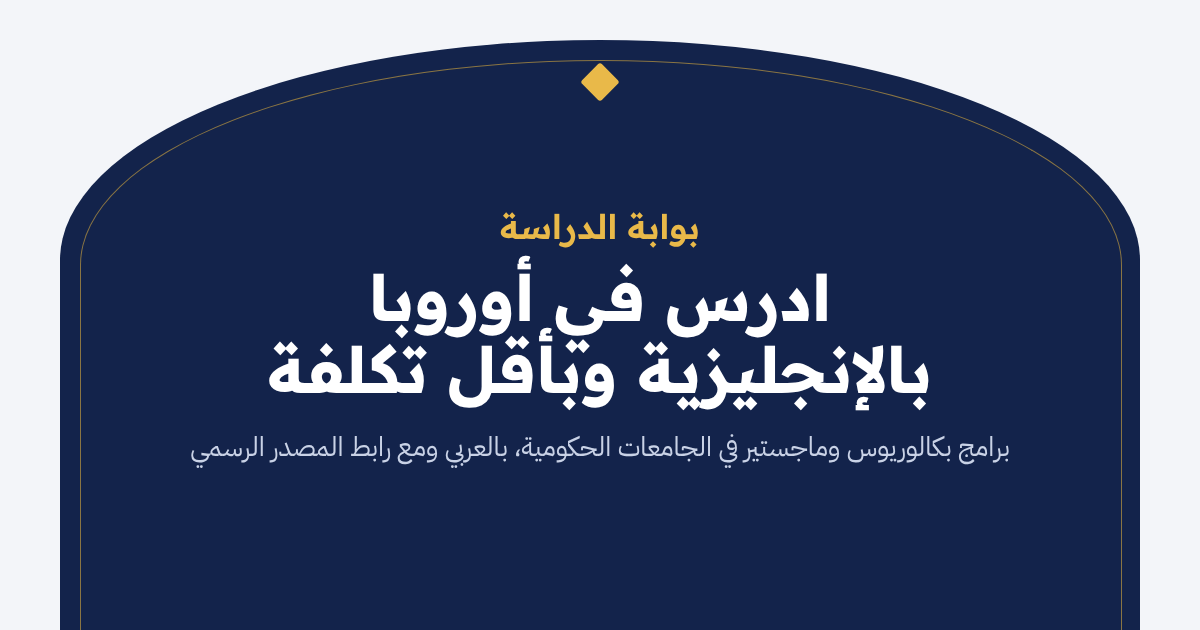
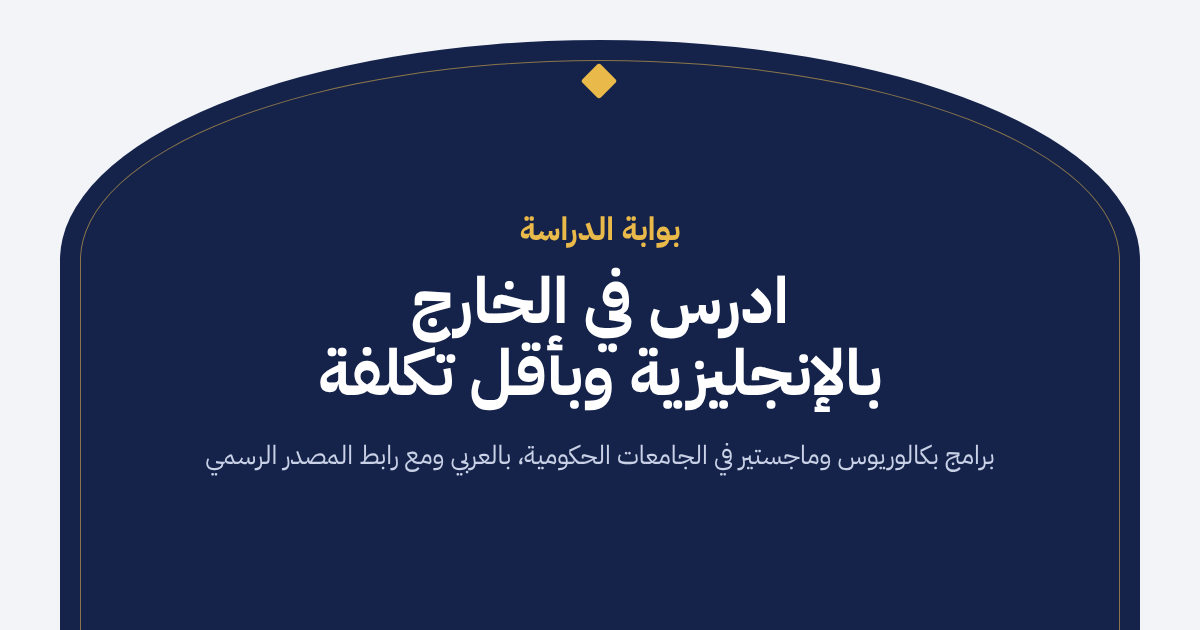
Share images: study abroad instead of Europe (no region)
Claude-Session: https://claude.ai/code/session_01VQ4j9W6vykzijmoHiss1UW

diff --git a/lib/visasMeta.js b/lib/visasMeta.js
@@ -14,7 +14,7 @@ export function visasMeta(lang, slug) {
   const nt = NTEXT[lang];
   const title = slug === NOMAD_HUB ? nt.meta : nm ? nt.metaOne(nm.name[lang]) : r ? RTEXT[lang].meta(r.name[lang]) : d ? t.metaDest(d.name[lang]) : t.metaHub;
   const description = slug === NOMAD_HUB ? nt.hubLead : nm ? nt.descOne(nm.name[lang]) : r ? RTEXT[lang].desc(r.name[lang]) : d ? t.descDest(d.name[lang]) : t.lead;
-  const img = `${SITE_ORIGIN}/study/og-${lang}.png?v=3`;
+  const img = `${SITE_ORIGIN}/study/og-${lang}.png?v=4`;
   return {
     title: { absolute: title }, description,
     alternates: { canonical: p(lang), languages: { ar: p("ar"), en: p("en"), "x-default": p("ar") } },

diff --git a/components/Fr.js b/components/Fr.js
@@ -30,7 +30,7 @@ export function frMeta({ title, description, path = "", ar, en }) {
     metadataBase: new URL(SITE_URL),
     title, description,
     alternates: { canonical: url, languages },
-    openGraph: { type: "website", siteName: "Bawabat AlDirasa", locale: "fr_FR", title, description, url, images: [{ url: `${SITE_URL}/og-en.png?v=3`, width: 1200, height: 630 }] },
+    openGraph: { type: "website", siteName: "Bawabat AlDirasa", locale: "fr_FR", title, description, url, images: [{ url: `${SITE_URL}/og-en.png?v=4`, width: 1200, height: 630 }] },
     twitter: { card: "summary_large_image", title, description },
   };
 }

diff --git a/lib/site.js b/lib/site.js
@@ -15,7 +15,7 @@ export function pageMeta(lang, { title, description, path = "/", image, fr } = {
   const abs = (p) => (/^https?:/.test(p) ? p : SITE_URL + (p === "/" ? "" : p));
   const enPath = `/en${path === "/" ? "" : path}`;
   const url = abs(lang === "ar" ? path : enPath);
-  const img = abs(image || `/og-${lang}.png?v=3`);
+  const img = abs(image || `/og-${lang}.png?v=4`);
   return {
     ...(title ? { title } : {}),
     description: desc,

diff --git a/scripts/og/make_site_og.py b/scripts/og/make_site_og.py
@@ -1,0 +1,31 @@
+# Draws public/og-ar.png and og-en.png (the study section share images) with Playwright. Run from the repo root: python3 scripts/og/make_site_og.py. After changing them, bump ?v= in lib/site.js, lib/visasMeta.js and components/Fr.js.
+from playwright.sync_api import sync_playwright
+import os
+F=os.path.abspath("lib/og/fonts")
+def page(lang, brand, title, sub):
+    d = "rtl" if lang=="ar" else "ltr"
+    fam = "PA" if lang=="ar" else "PL"
+    return f"""<html dir="{d}"><head><style>
+@font-face{{font-family:PA;src:url(file://{F}/ibm-plex-sans-arabic-arabic-700-normal.woff);font-weight:700}}
+@font-face{{font-family:PA;src:url(file://{F}/ibm-plex-sans-arabic-arabic-400-normal.woff);font-weight:400}}
+@font-face{{font-family:PL;src:url(file://{F}/ibm-plex-sans-arabic-latin-700-normal.woff);font-weight:700}}
+@font-face{{font-family:PL;src:url(file://{F}/ibm-plex-sans-arabic-latin-400-normal.woff);font-weight:400}}
+html,body{{margin:0;width:1200px;height:630px;background:#F3F4F8;overflow:hidden;font-family:{fam},PA,PL}}
+.arch{{position:absolute;left:60px;right:60px;top:40px;bottom:-40px;background:#15234B;border-radius:540px 540px 0 0/220px 220px 0 0}}
+.in{{position:absolute;left:80px;right:80px;top:60px;bottom:-40px;border:1px solid rgba(233,185,73,.55);border-radius:520px 520px 0 0/200px 200px 0 0}}
+.dia{{position:absolute;left:586px;top:68px;width:26px;height:26px;background:#E9B949;transform:rotate(45deg);border-radius:3px}}
+.c{{position:absolute;left:0;right:0;top:205px;text-align:center}}
+.b{{color:#E9B949;font-weight:700;font-size:32px;margin-bottom:14px}}
+.t{{color:#fff;font-weight:700;font-size:64px;line-height:1.12}}
+.s{{color:#C9D1E6;font-size:26px;margin-top:26px;line-height:1.5}}
+</style></head><body><div class="arch"></div><div class="in"></div><div class="dia"></div>
+<div class="c"><div class="b">{brand}</div><div class="t">{title}</div><div class="s">{sub}</div></div></body></html>"""
+with sync_playwright() as p:
+    b=p.chromium.launch(); pg=b.new_page(viewport={"width":1200,"height":630})
+    for lang,brand,title,sub in [
+      ("ar","بوابة الدراسة","ادرس في الخارج<br>بالإنجليزية وبأقل تكلفة","برامج بكالوريوس وماجستير في الجامعات الحكومية، بالعربي ومع رابط المصدر الرسمي"),
+      ("en","Bawabat AlDirasa","Study abroad<br>in English, for less","Bachelor's and master's at public universities,<br>with the official source for every fact")]:
+        open(f"/tmp/og-{lang}.html","w").write(page(lang,brand,title,sub))
+        pg.goto(f"file:///tmp/og-{lang}.html"); pg.wait_for_timeout(500)
+        pg.screenshot(path=f"public/og-{lang}.png")
+    b.close()

diff --git a/CLAUDE.md b/CLAUDE.md
@@ -167,6 +167,8 @@ Read this first in every new session. Keep it up to date: when a decision is mad
 - Long-stay routes (20 Nov, Hatem): lib/visaRoutes.js ROUTES served by the same /visas/[slug] pages (VisaRoute in components/Visas.js; visasMeta/DEST_SLUGS include ROUTE_SLUGS; hub section "تأشيرات الإقامة الطويلة"). germany-opportunity-card: § 20a AufenthG, path 1 full recognition no points / path 2 home-recognised qualification + German A1 or English B2 + 6 points (CK_POINTS from make-it-in-germany), €1,091 net/month 2026 (€13,092/yr), fees up to €100, insurance ≥ €30,000 (Cairo leaflet), 20 h/week + 2 weeks trial work, 1 year, follow-up card up to 2 years; components/PointsCheck.js (client, nothing saved). spain-digital-nomad: Ley 14/2013 ch. V bis; 200% SMI monthly gross (SMI 2026 €1,221 x 14 = €17,094 per RD 126/2026, so €2,442 monthly basis or ~€2,849 if /12; consulate basis للتحقق), family +75%/+25%, 3 months with employer, company 1 year old, degree or 3 years experience, freelancers ≤20% Spanish clients, visa 1 year then residence up to 3 years (renewal 2 years للتحقق), UGE in-Spain fee €73.26, Egypt via BLS (10-day decision; consular fee not published). Next routes: EU Blue Card, UK Skilled Worker, Canada Express Entry, Australia/NZ points; Chancenkarte/Spain routes for sa/ma/jo/dz consulates.
 - Digital nomad visas (20 Nov, Hatem): lib/nomadVisas.js NOMADS (15: es links to its own route page spain-digital-nomad; pt it gr hr ee mt hu ro tr ae my th jp br get generated pages /visas/<country>-digital-nomad, UAE = uae-remote-work), hub /visas/digital-nomad-visas (NomadHub + components/NomadFinder.js: monthly income in EUR + nationality -> fits / below / no figure, nationality limits via only/exclude/listCheck; nothing saved). `min` = monthly EUR for the finder (USD at ECB 17 Nov 2026 1.0989, RON 5.3482; minCheck = our calculation or to verify; null for Thailand (500,000 THB savings) and Japan (JPY 10M/yr)). Key facts: Portugal 4 x €920 = €3,680 (VFS checklists + DGERT); Italy 3x healthcare-exemption minimum (€24,789 for 2024 per Washington embassy, ~€28,000 per Johannesburg; finder uses 28,000/12); Greece €3,500 (mfa.gr), Law 5275/2026 needs consulate D visa first (news, check); Croatia €3,622.50 or €43,470/12 months, up to 18 months, visa nationals apply at missions (MUP); Estonia €4,500 gross, €80 C / €100 D (visitestonia FAQ); Malta €42,000/yr, €300 + €100, excludes so sd ye (Residency Malta FAQ); Hungary White Card €3,000 net, no family (OIF); Romania 3 x avg gross (Law 44/2026 9,192 lei -> 27,576 lei, check); Türkiye US$3,000/mo, degree, listed nationalities only (Arab passports not on published lists, check); UAE US$3,500, GDRFA fees AED 200+10+10+500+20; Malaysia DE Rantau US$24,000 tech / 60,000 non-tech, RM1,080 + RM540 per dependant (MDEC FAQ v10, Israel excluded); Thailand DTV 500,000 THB, 5 years, 180 days per entry; Japan JPY 10M, 6 months, only UAE among Arab main applicants (moj list); Brazil US$1,500/mo or US$18,000 (Res. 45/2021; gov.br pages behind a captcha, duration not read). Flags for jp th br drawn in DestFlag. Next: Costa Rica, Mauritius, Cyprus, Czechia (Zivno is not a nomad visa), Iceland, Colombia; per-origin consulates.
 
+- Share images (21 Nov, Hatem): public/og-ar.png / og-en.png now say "ادرس في الخارج بالإنجليزية وبأقل تكلفة" / "Study abroad in English, for less" (no region), drawn by scripts/og/make_site_og.py (Playwright + Plex fonts); cache version ?v=4 in lib/site.js, lib/visasMeta.js, components/Fr.js. The visas pages still reuse the study image (brand "بوابة الدراسة"); a visas-specific image is still to do.
+
 ## Next (in Hatem's order)
 1. Keep growing the small fields (master's: social work 6, urban 10, art 10, food 10, education 11, tourism 11, psychology 11; bachelor's: social work 1, health 4, sport 6, art 7, humanities 7, science 8; candidates: University of Auckland 2027 UG table (BFA NZ$47,221, BDes NZ$51,688, Sport Health and PE NZ$42,521 per 120 points; durations and international dates still to read)), Türkiye (METU, Boğaziçi, ITU; next Hacettepe, Ankara), Malaysia (UM, USM, UTM; next UKM/UPM when 2026/27 fees are published, bachelor's), Canada (Memorial), Australia (Flinders), New Zealand (Waikato, AUT): add more universities and official scholarships, Greece (5 master's + 1 bachelor's), Cyprus (19 + 1), Portugal (8 + 6).
 2. Check the link report's real "Broken" group after each run (the TLS and no-answer groups are usually fine in a browser).
